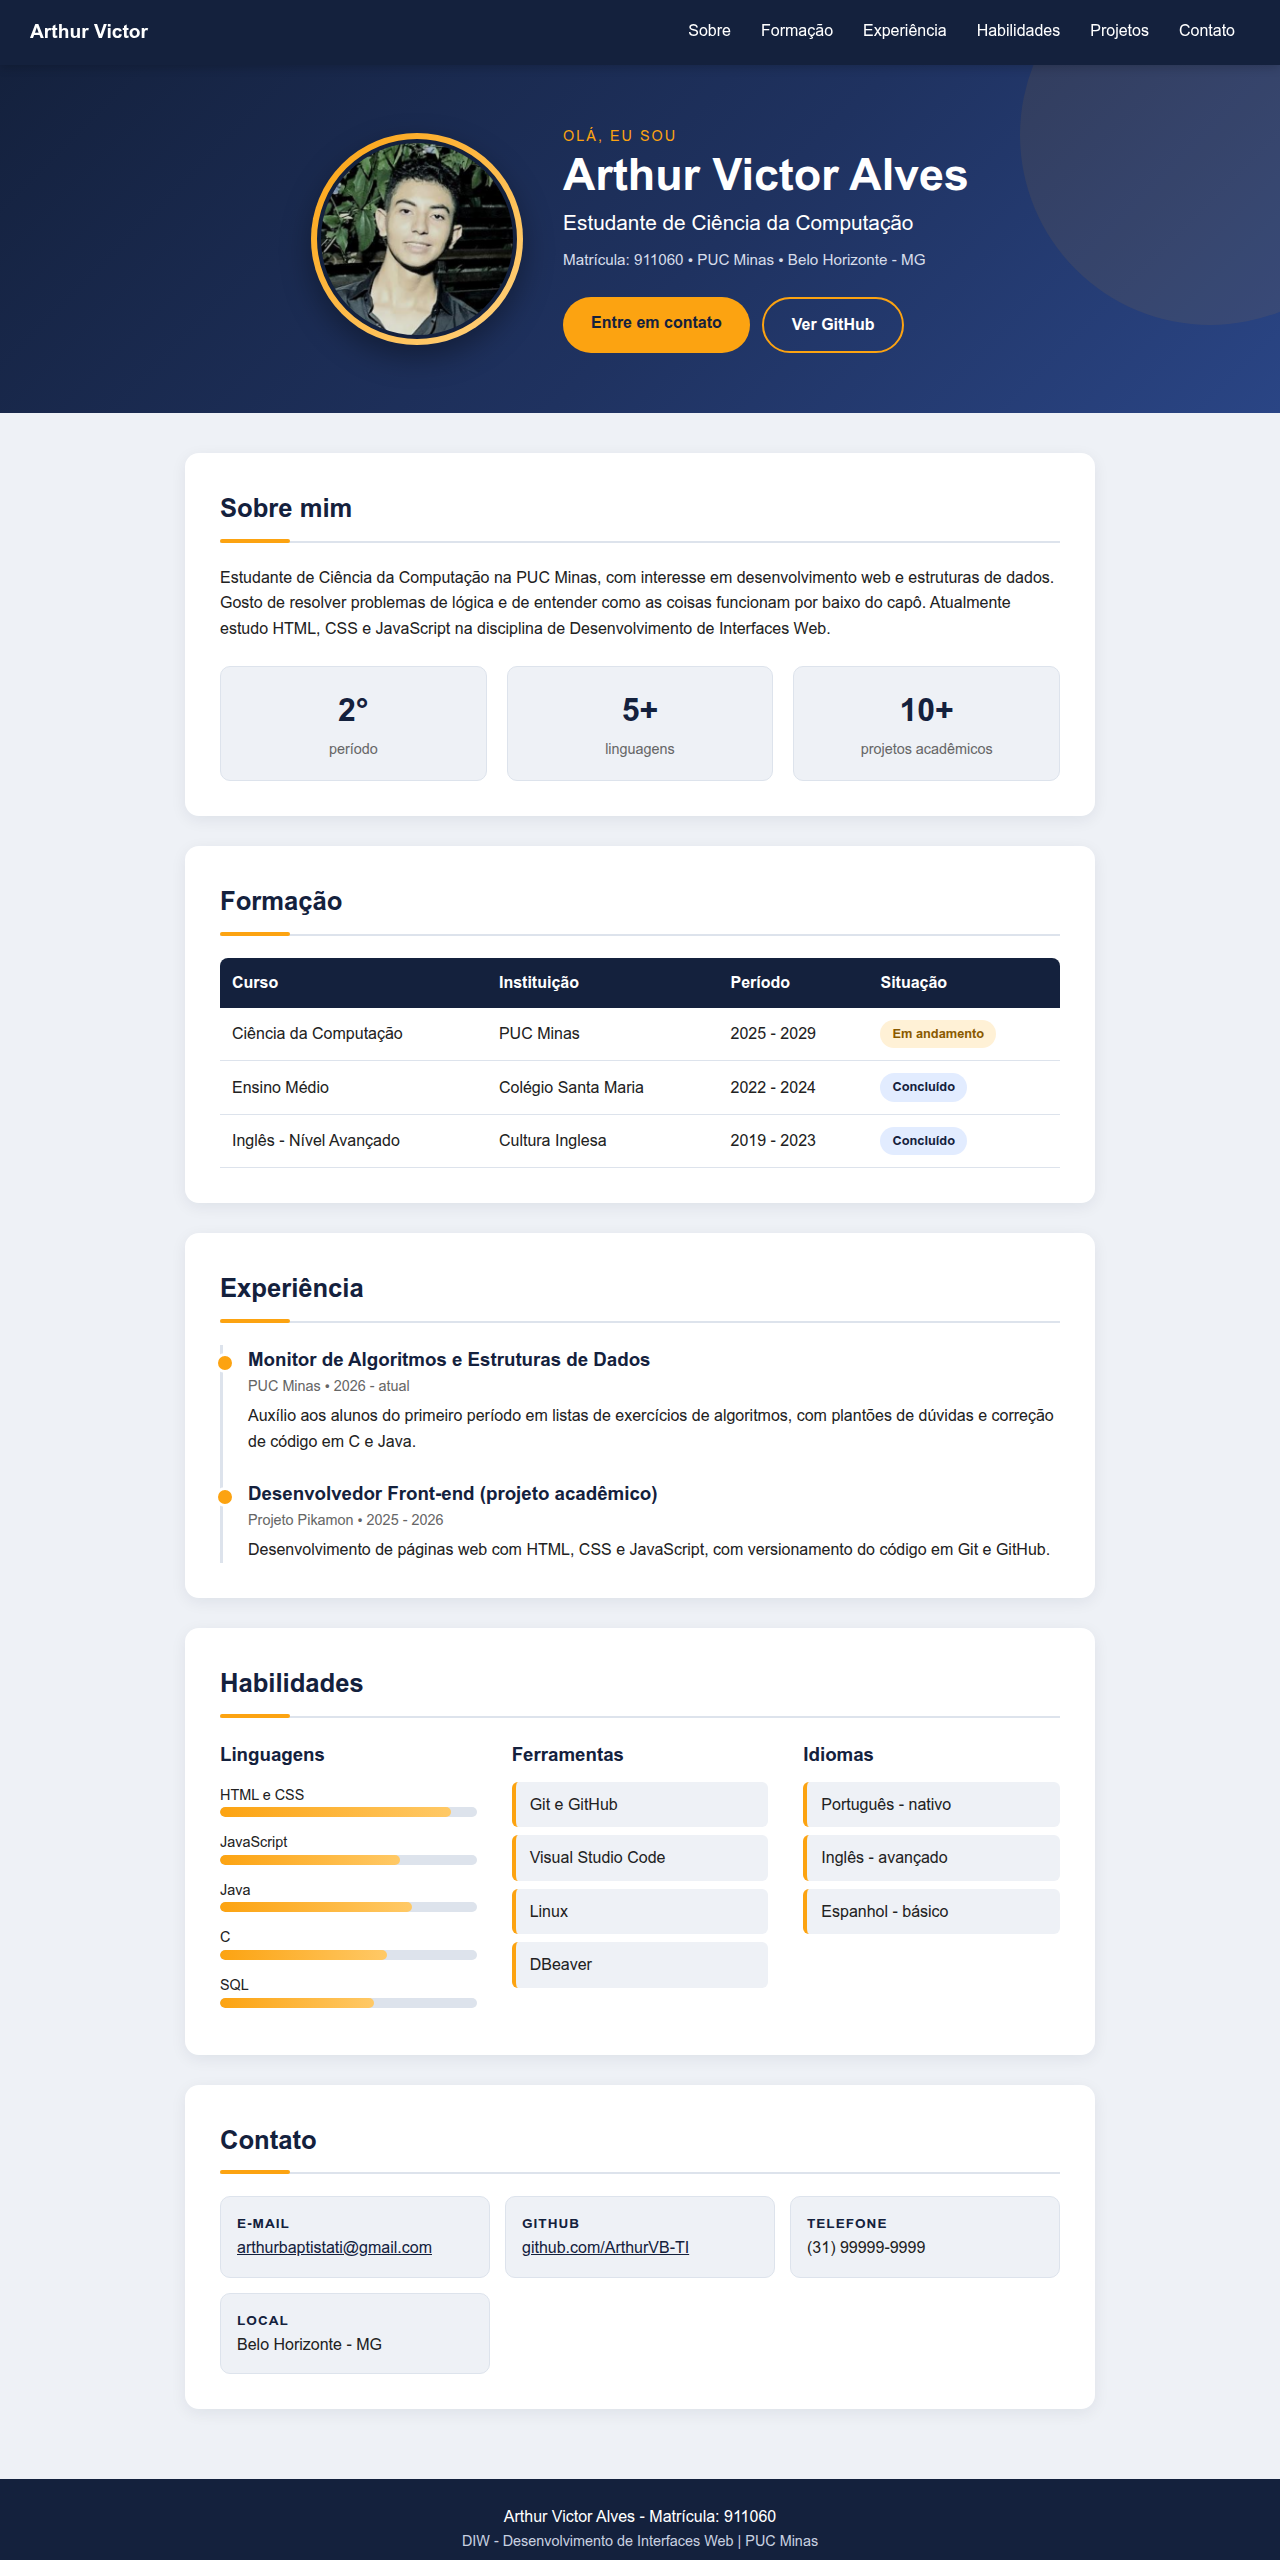
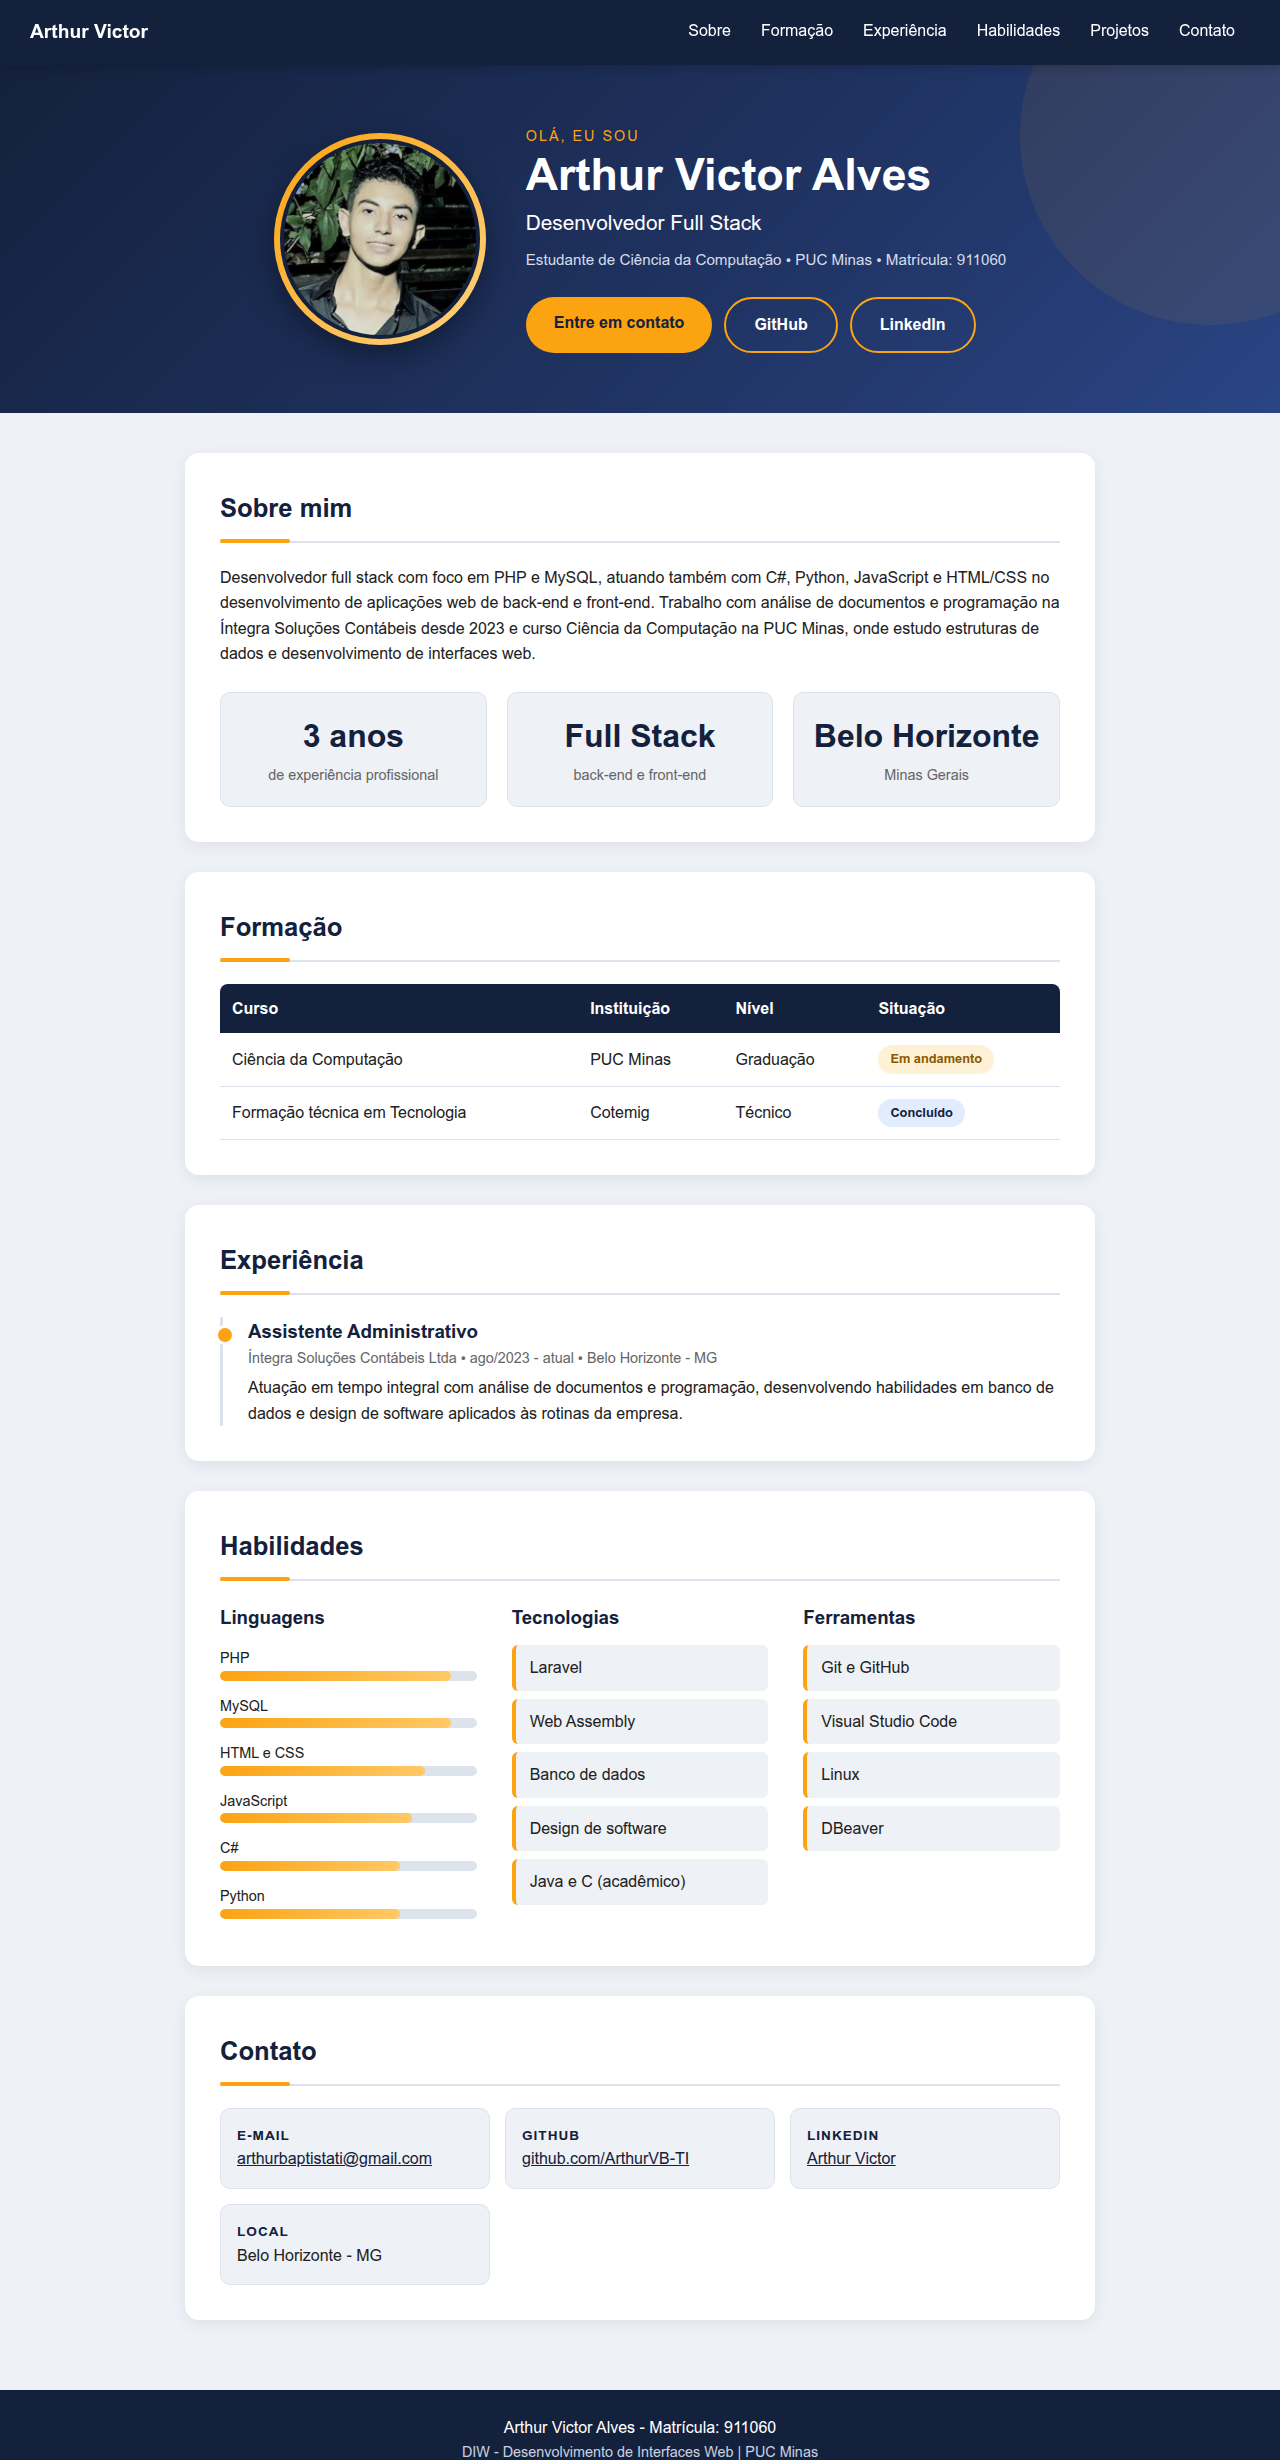
atualizando

diff --git a/Aula03/public/index.html b/Aula03/public/index.html
@@ -4,7 +4,7 @@
     <meta charset="UTF-8">
     <meta name="viewport" content="width=device-width, initial-scale=1.0">
     <meta name="author" content="Arthur Victor Alves">
-    <meta name="description" content="Curriculum Vitae de Arthur Victor Alves, estudante de Ciência da Computação na PUC Minas">
+    <meta name="description" content="Curriculum Vitae de Arthur Victor Alves, desenvolvedor full stack e estudante de Ciência da Computação na PUC Minas">
     <title>Curriculum Vitae - Arthur Victor Alves</title>
     <link rel="stylesheet" href="style.css">
 </head>
@@ -23,16 +23,17 @@
 
     <header id="topo">
         <div id="moldura">
-            <img id="foto" src="foto.png" alt="">
+            <img id="foto" src="foto.png" alt="Foto de Arthur Victor Alves">
         </div>
         <div id="identificacao">
             <p id="saudacao">Olá, eu sou</p>
             <h1>Arthur Victor Alves</h1>
-            <p id="cargo">Estudante de Ciência da Computação</p>
-            <p id="matricula">Matrícula: 911060 &bull; PUC Minas &bull; Belo Horizonte - MG</p>
+            <p id="cargo">Desenvolvedor Full Stack</p>
+            <p id="matricula">Estudante de Ciência da Computação &bull; PUC Minas &bull; Matrícula: 911060</p>
             <div id="acoes">
                 <a class="botao" href="#contato">Entre em contato</a>
-                <a class="botao secundario" href="https://github.com/ArthurVB-TI">Ver GitHub</a>
+                <a class="botao secundario" href="https://github.com/ArthurVB-TI">GitHub</a>
+                <a class="botao secundario" href="https://www.linkedin.com/in/arthur-victor-5197a6355/">LinkedIn</a>
             </div>
         </div>
     </header>
@@ -41,24 +42,25 @@
         <section id="sobre" class="cartao">
             <h2>Sobre mim</h2>
             <p>
-                Estudante de Ciência da Computação na PUC Minas, com interesse em
-                desenvolvimento web e estruturas de dados. Gosto de resolver problemas
-                de lógica e de entender como as coisas funcionam por baixo do capô.
-                Atualmente estudo HTML, CSS e JavaScript na disciplina de
-                Desenvolvimento de Interfaces Web.
+                Desenvolvedor full stack com foco em PHP e MySQL, atuando também com
+                C#, Python, JavaScript e HTML/CSS no desenvolvimento de aplicações web
+                de back-end e front-end. Trabalho com análise de documentos e
+                programação na Íntegra Soluções Contábeis desde 2023 e curso Ciência da
+                Computação na PUC Minas, onde estudo estruturas de dados e
+                desenvolvimento de interfaces web.
             </p>
             <div id="numeros">
                 <div class="numero">
-                    <strong>2°</strong>
-                    <span>período</span>
+                    <strong>3 anos</strong>
+                    <span>de experiência profissional</span>
                 </div>
                 <div class="numero">
-                    <strong>5+</strong>
-                    <span>linguagens</span>
+                    <strong>Full Stack</strong>
+                    <span>back-end e front-end</span>
                 </div>
                 <div class="numero">
-                    <strong>10+</strong>
-                    <span>projetos acadêmicos</span>
+                    <strong>Belo Horizonte</strong>
+                    <span>Minas Gerais</span>
                 </div>
             </div>
         </section>
@@ -70,7 +72,7 @@
                     <tr>
                         <th>Curso</th>
                         <th>Instituição</th>
-                        <th>Período</th>
+                        <th>Nível</th>
                         <th>Situação</th>
                     </tr>
                 </thead>
@@ -78,19 +80,13 @@
                     <tr>
                         <td>Ciência da Computação</td>
                         <td>PUC Minas</td>
-                        <td>2025 - 2029</td>
+                        <td>Graduação</td>
                         <td><span class="etiqueta andamento">Em andamento</span></td>
                     </tr>
                     <tr>
-                        <td>Ensino Médio</td>
-                        <td>Colégio Santa Maria</td>
-                        <td>2022 - 2024</td>
-                        <td><span class="etiqueta concluido">Concluído</span></td>
-                    </tr>
-                    <tr>
-                        <td>Inglês - Nível Avançado</td>
-                        <td>Cultura Inglesa</td>
-                        <td>2019 - 2023</td>
+                        <td>Formação técnica em Tecnologia</td>
+                        <td>Cotemig</td>
+                        <td>Técnico</td>
                         <td><span class="etiqueta concluido">Concluído</span></td>
                     </tr>
                 </tbody>
@@ -101,19 +97,12 @@
             <h2>Experiência</h2>
             <ul id="linha-do-tempo">
                 <li class="item">
-                    <h3>Monitor de Algoritmos e Estruturas de Dados</h3>
-                    <p class="periodo">PUC Minas &bull; 2026 - atual</p>
+                    <h3>Assistente Administrativo</h3>
+                    <p class="periodo">Íntegra Soluções Contábeis Ltda &bull; ago/2023 - atual &bull; Belo Horizonte - MG</p>
                     <p>
-                        Auxílio aos alunos do primeiro período em listas de exercícios de
-                        algoritmos, com plantões de dúvidas e correção de código em C e Java.
-                    </p>
-                </li>
-                <li class="item">
-                    <h3>Desenvolvedor Front-end (projeto acadêmico)</h3>
-                    <p class="periodo">Projeto Pikamon &bull; 2025 - 2026</p>
-                    <p>
-                        Desenvolvimento de páginas web com HTML, CSS e JavaScript, com
-                        versionamento do código em Git e GitHub.
+                        Atuação em tempo integral com análise de documentos e programação,
+                        desenvolvendo habilidades em banco de dados e design de software
+                        aplicados às rotinas da empresa.
                     </p>
                 </li>
             </ul>
@@ -126,6 +115,14 @@
                     <h3>Linguagens</h3>
                     <ul class="niveis">
                         <li>
+                            <span>PHP</span>
+                            <div class="barra"><div class="preenchimento" id="nivel-php"></div></div>
+                        </li>
+                        <li>
+                            <span>MySQL</span>
+                            <div class="barra"><div class="preenchimento" id="nivel-mysql"></div></div>
+                        </li>
+                        <li>
                             <span>HTML e CSS</span>
                             <div class="barra"><div class="preenchimento" id="nivel-html"></div></div>
                         </li>
@@ -134,17 +131,23 @@
                             <div class="barra"><div class="preenchimento" id="nivel-js"></div></div>
                         </li>
                         <li>
-                            <span>Java</span>
-                            <div class="barra"><div class="preenchimento" id="nivel-java"></div></div>
+                            <span>C#</span>
+                            <div class="barra"><div class="preenchimento" id="nivel-csharp"></div></div>
                         </li>
                         <li>
-                            <span>C</span>
-                            <div class="barra"><div class="preenchimento" id="nivel-c"></div></div>
+                            <span>Python</span>
+                            <div class="barra"><div class="preenchimento" id="nivel-python"></div></div>
                         </li>
-                        <li>
-                            <span>SQL</span>
-                            <div class="barra"><div class="preenchimento" id="nivel-sql"></div></div>
-                        </li>
+                    </ul>
+                </div>
+                <div class="coluna">
+                    <h3>Tecnologias</h3>
+                    <ul class="marcadores">
+                        <li>Laravel</li>
+                        <li>Web Assembly</li>
+                        <li>Banco de dados</li>
+                        <li>Design de software</li>
+                        <li>Java e C (acadêmico)</li>
                     </ul>
                 </div>
                 <div class="coluna">
@@ -154,14 +157,6 @@
                         <li>Visual Studio Code</li>
                         <li>Linux</li>
                         <li>DBeaver</li>
-                    </ul>
-                </div>
-                <div class="coluna">
-                    <h3>Idiomas</h3>
-                    <ul class="marcadores">
-                        <li>Português - nativo</li>
-                        <li>Inglês - avançado</li>
-                        <li>Espanhol - básico</li>
                     </ul>
                 </div>
             </div>
@@ -179,8 +174,8 @@
                     <a href="https://github.com/ArthurVB-TI">github.com/ArthurVB-TI</a>
                 </li>
                 <li>
-                    <strong>Telefone</strong>
-                    <span>(31) 99999-9999</span>
+                    <strong>LinkedIn</strong>
+                    <a href="https://www.linkedin.com/in/arthur-victor-5197a6355/">Arthur Victor</a>
                 </li>
                 <li>
                     <strong>Local</strong>

diff --git a/Aula03/public/style.css b/Aula03/public/style.css
@@ -375,24 +375,28 @@ tbody tr:hover td{
     border-radius: 10px;
 }
 
-#nivel-html{
+#nivel-php{
     width: 90%;
 }
 
-#nivel-js{
-    width: 70%;
+#nivel-mysql{
+    width: 90%;
 }
 
-#nivel-java{
+#nivel-html{
+    width: 80%;
+}
+
+#nivel-js{
     width: 75%;
 }
 
-#nivel-c{
-    width: 65%;
+#nivel-csharp{
+    width: 70%;
 }
 
-#nivel-sql{
-    width: 60%;
+#nivel-python{
+    width: 70%;
 }
 
 .marcadores{
